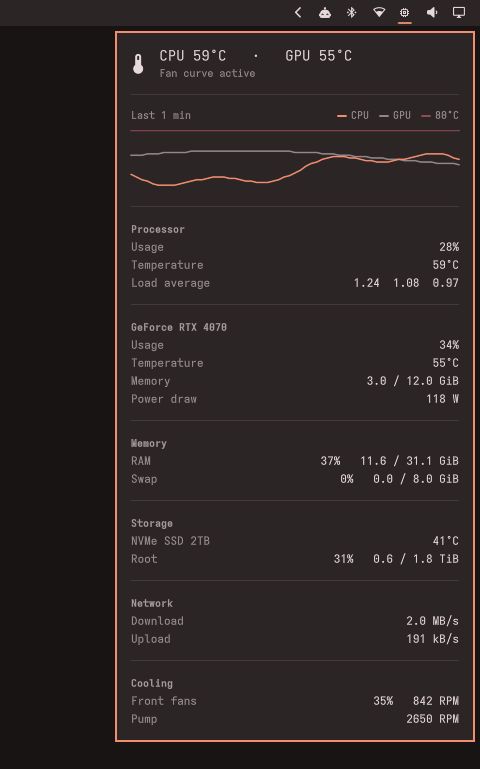
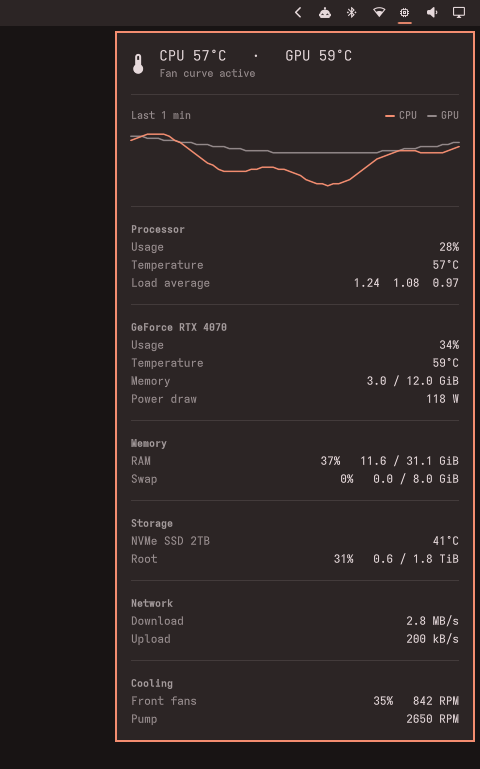
Remove the warning line from the temperature graph
The graph now scales to the readings themselves instead of always
stretching up to warnTemp, which squeezed the CPU and GPU lines together.
warnTemp still turns the bar icon red.

Claude-Session: https://claude.ai/code/session_01BSpAX8LTP6bscM2gkmwF6H

diff --git a/Panel.qml b/Panel.qml
@@ -315,7 +315,6 @@ Panel {
               spacing: Style.space(10)
               LegendItem { swatch: Color.accent; caption: "CPU" }
               LegendItem { visible: root.gpuSeen; swatch: root.bar.foreground; swatchOpacity: 0.55; caption: "GPU" }
-              LegendItem { swatch: root.bar.urgent; swatchOpacity: 0.5; caption: root.warnTemp + "°C" }
             }
           }
 
@@ -324,8 +323,8 @@ Panel {
             width: parent.width
             height: Style.space(64)
 
-            // From a little below the coolest reading to just above warnTemp, so
-            // the warning line always shows how much headroom is left.
+            // Fits the readings with a little padding. A minimum span keeps a
+            // steady temperature from looking like big swings.
             readonly property var range: {
               var lo = Infinity
               var hi = -Infinity
@@ -335,9 +334,9 @@ Panel {
                 if (h[i].gpu !== null) { lo = Math.min(lo, h[i].gpu); hi = Math.max(hi, h[i].gpu) }
               }
               if (lo === Infinity) { lo = 30; hi = 60 }
-              hi = Math.max(hi, root.warnTemp) + 2
-              lo = Math.min(lo - 5, hi - 20)
-              return { lo: lo, hi: hi }
+              var mid = (lo + hi) / 2
+              var span = Math.max(hi - lo + 6, 15)
+              return { lo: mid - span / 2, hi: mid + span / 2 }
             }
 
             function yFor(t) { return height - (t - range.lo) / (range.hi - range.lo) * height }
@@ -366,15 +365,6 @@ Panel {
             Shape {
               anchors.fill: parent
               preferredRendererType: Shape.CurveRenderer
-
-              ShapePath {
-                strokeColor: Qt.rgba(root.bar.urgent.r, root.bar.urgent.g, root.bar.urgent.b, 0.5)
-                strokeWidth: 1
-                fillColor: "transparent"
-                startX: 0
-                startY: graph.yFor(root.warnTemp)
-                PathLine { x: graph.width; y: graph.yFor(root.warnTemp) }
-              }
 
               ShapePath {
                 strokeColor: Qt.rgba(root.bar.foreground.r, root.bar.foreground.g, root.bar.foreground.b, 0.55)

diff --git a/README.md b/README.md
@@ -22,7 +22,7 @@ Needs Omarchy 4 for its plugin system, `jq` (included with Omarchy), and `nvidia
 
 ## What it shows
 
-- **Temperature history:** a graph of CPU and GPU temperature over the last few minutes, with a line at `warnTemp` so you can see the headroom. It's kept in memory, so it starts empty whenever the shell restarts.
+- **Temperature history:** a graph of CPU and GPU temperature over the last few minutes. It's kept in memory, so it starts empty whenever the shell restarts.
 - **Processor, graphics and memory:** usage, temperatures, load average, video memory and power draw.
 - **Storage:** each drive's temperature, highlighted once it passes the drive's own warning threshold, and usage for the filesystems in `disks`, highlighted above 90%. A path on a filesystem that's already listed, such as `/home` on a single-partition install, isn't repeated. NVMe drives work out of the box. SATA drives need the kernel's `drivetemp` module: `sudo modprobe drivetemp`, and add `drivetemp` to a file in `/etc/modules-load.d/` to keep it after a reboot.
 - **Network:** download and upload speed across your physical network interfaces. Docker bridges, VPN tunnels and loopback are skipped, because their traffic already passes through a physical interface.
